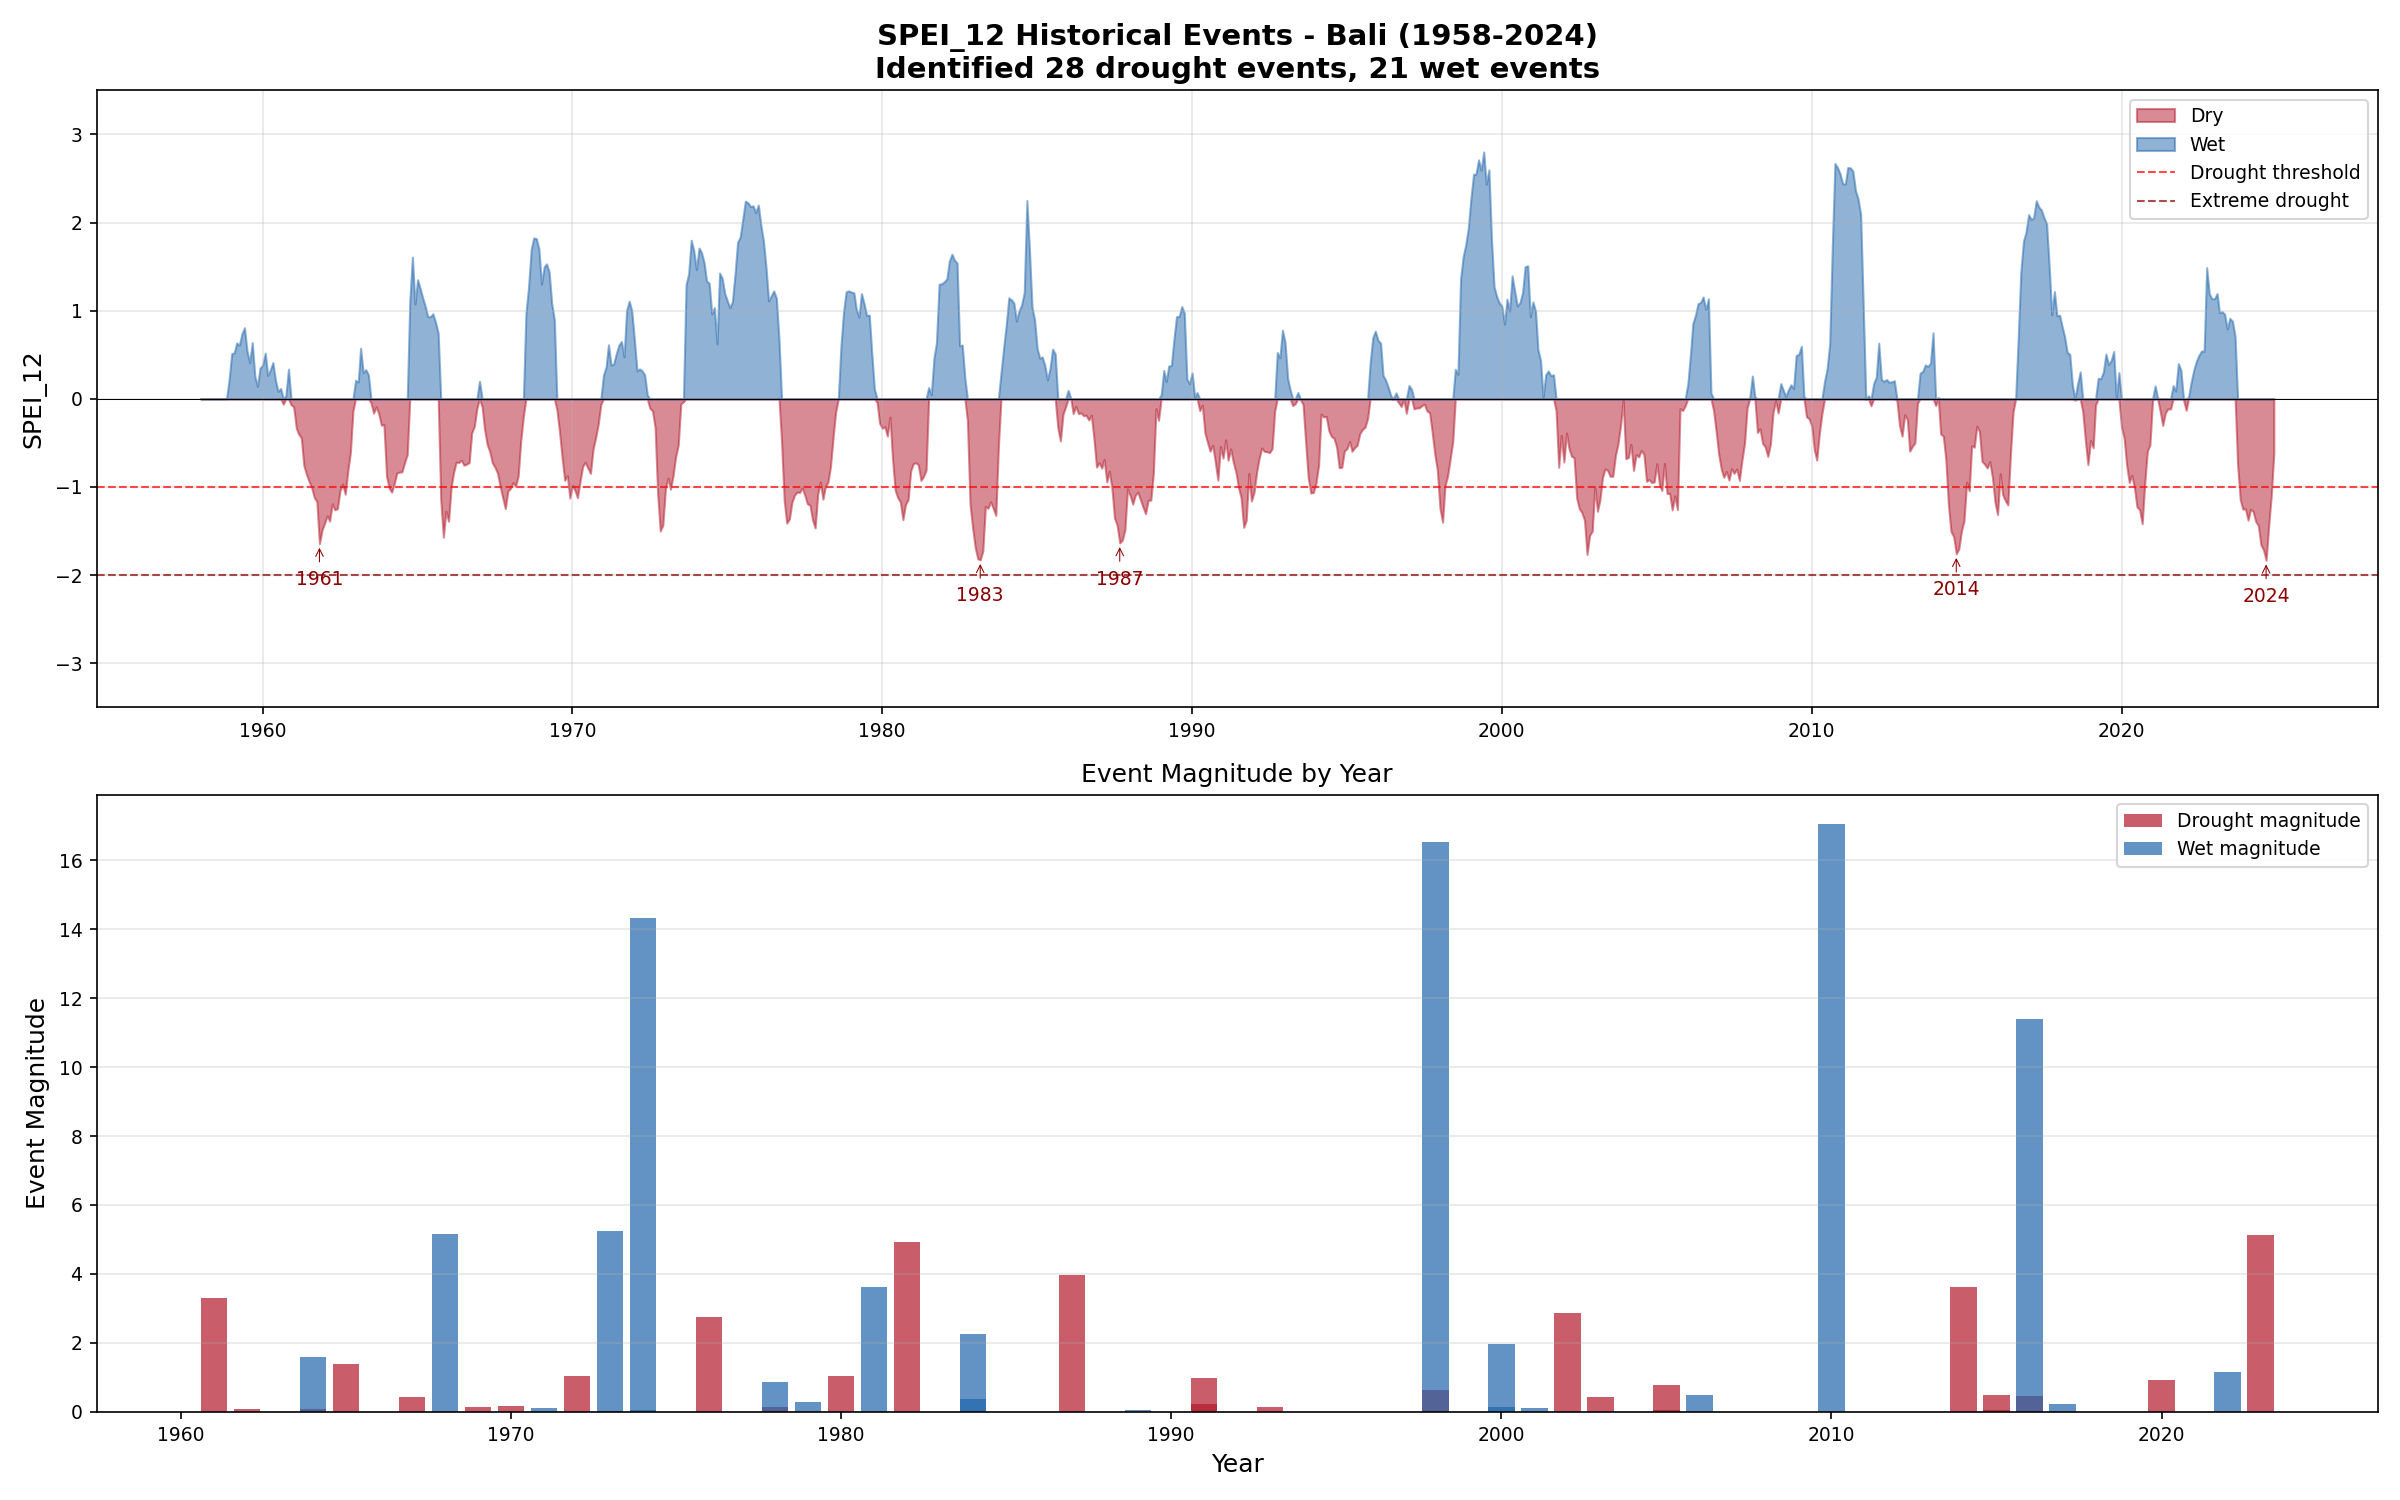
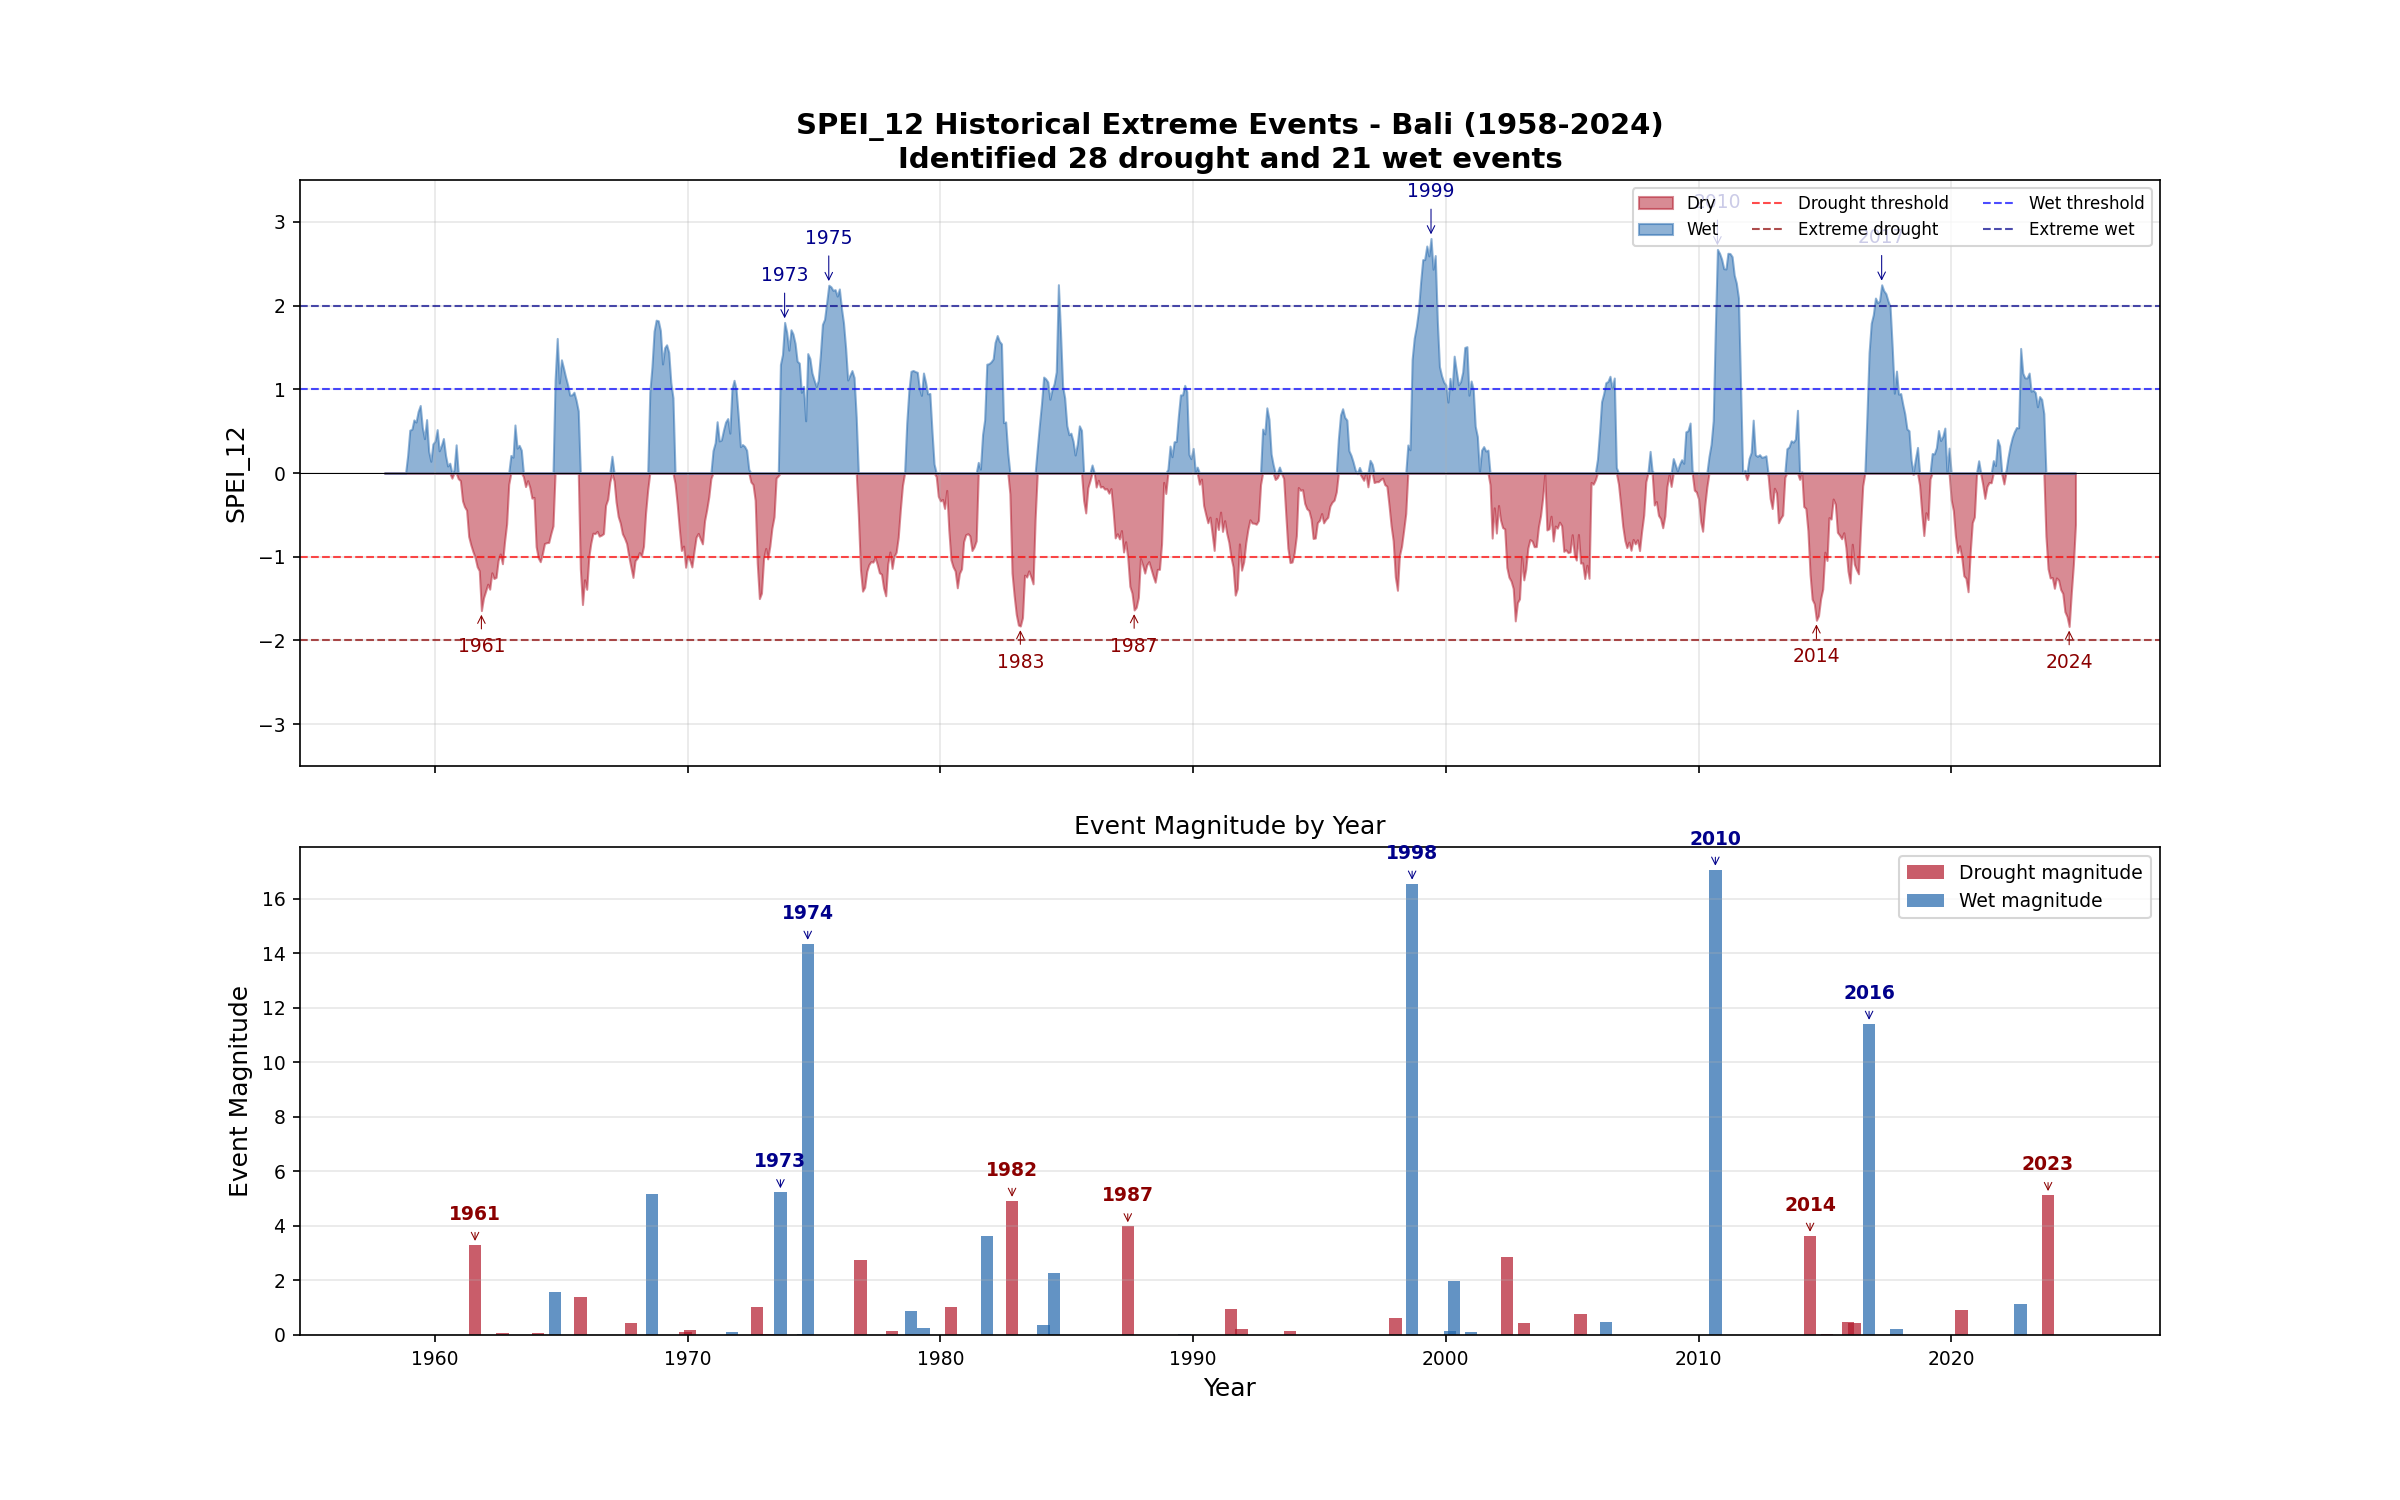
Update plot

diff --git a/tests/06_visualization.py b/tests/06_visualization.py
@@ -435,8 +435,9 @@ def create_historical_events_plot(results: dict):
         # Identify wet events (positive threshold)
         wet_events = identify_events(ts, threshold=1.0)
 
-        # Create figure with 2 panels
-        fig, axes = plt.subplots(2, 1, figsize=(16, 10))
+        # Create figure with 2 panels sharing x-axis
+        fig, axes = plt.subplots(2, 1, figsize=(16, 10), sharex=True,
+                                 gridspec_kw={'height_ratios': [1.2, 1], 'hspace': 0.15})
 
         # Panel 1: Drought events
         ax1 = axes[0]
@@ -450,6 +451,8 @@ def create_historical_events_plot(results: dict):
         ax1.axhline(y=0, color='k', linewidth=0.5)
         ax1.axhline(y=-1, color='red', linestyle='--', linewidth=1, alpha=0.7, label='Drought threshold')
         ax1.axhline(y=-2, color='darkred', linestyle='--', linewidth=1, alpha=0.7, label='Extreme drought')
+        ax1.axhline(y=1, color='blue', linestyle='--', linewidth=1, alpha=0.7, label='Wet threshold')
+        ax1.axhline(y=2, color='darkblue', linestyle='--', linewidth=1, alpha=0.7, label='Extreme wet')
 
         # Annotate top 5 drought events
         if len(drought_events) > 0:
@@ -465,39 +468,86 @@ def create_historical_events_plot(results: dict):
                                fontsize=9, ha='center', color='darkred',
                                arrowprops=dict(arrowstyle='->', color='darkred', lw=0.5))
 
+        # Annotate top 5 wet events
+        if len(wet_events) > 0:
+            top_wets = wet_events.nlargest(5, 'magnitude')
+            for idx, event in top_wets.iterrows():
+                peak_idx = int(event['peak_idx'])
+                if peak_idx < len(times):
+                    peak_time = times[peak_idx]
+                    peak_val = values[peak_idx]
+                    ax1.annotate(f"{peak_time.year}",
+                               xy=(peak_time, peak_val),
+                               xytext=(0, 20), textcoords='offset points',
+                               fontsize=9, ha='center', color='darkblue',
+                               arrowprops=dict(arrowstyle='->', color='darkblue', lw=0.5))
+
         ax1.set_ylabel(name.upper(), fontsize=12)
-        ax1.set_title(f'{name.upper()} Historical Events - Bali (1958-2024)\n'
-                     f'Identified {len(drought_events)} drought events, {len(wet_events)} wet events',
+        ax1.set_title(f'{name.upper()} Historical Extreme Events - Bali (1958-2024)\n'
+                     f'Identified {len(drought_events)} drought and {len(wet_events)} wet events',
                      fontsize=14, fontweight='bold')
         ax1.set_ylim(-3.5, 3.5)
-        ax1.legend(loc='upper right')
+        ax1.legend(loc='upper right', fontsize=8, ncol=3)
         ax1.grid(True, alpha=0.3)
 
-        # Panel 2: Event statistics
+        # Panel 2: Event statistics (using datetime x-axis to align with top panel)
         ax2 = axes[1]
 
         if len(drought_events) > 0:
-            # Create bar chart of event magnitudes over time
-            event_years = []
-            event_mags = []
+            # Create bar chart using datetime positions to align with top panel
+            bar_width = np.timedelta64(180, 'D')  # ~6 months width for bars
+
+            drought_times = []
+            drought_mags = []
             for idx, event in drought_events.iterrows():
                 start_idx = int(event['start_idx'])
                 if start_idx < len(times):
-                    event_years.append(times[start_idx].year)
-                    event_mags.append(event['magnitude'])
+                    drought_times.append(times[start_idx])
+                    drought_mags.append(event['magnitude'])
 
-            ax2.bar(event_years, event_mags, color='#b2182b', alpha=0.7, width=0.8, label='Drought magnitude')
+            if drought_times:
+                ax2.bar(drought_times, drought_mags, color='#b2182b', alpha=0.7,
+                       width=bar_width, label='Drought magnitude')
 
             # Add wet events
             if len(wet_events) > 0:
-                wet_years = []
+                wet_times = []
                 wet_mags = []
                 for idx, event in wet_events.iterrows():
                     start_idx = int(event['start_idx'])
                     if start_idx < len(times):
-                        wet_years.append(times[start_idx].year)
+                        wet_times.append(times[start_idx])
                         wet_mags.append(event['magnitude'])
-                ax2.bar(wet_years, wet_mags, color='#2166ac', alpha=0.7, width=0.8, label='Wet magnitude')
+                if wet_times:
+                    ax2.bar(wet_times, wet_mags, color='#2166ac', alpha=0.7,
+                           width=bar_width, label='Wet magnitude')
+
+            # Annotate top 5 drought events on bottom panel
+            top_droughts = drought_events.nlargest(5, 'magnitude')
+            for idx, event in top_droughts.iterrows():
+                start_idx = int(event['start_idx'])
+                if start_idx < len(times):
+                    event_time = times[start_idx]
+                    event_mag = event['magnitude']
+                    ax2.annotate(f"{event_time.year}",
+                               xy=(event_time, event_mag),
+                               xytext=(0, 12), textcoords='offset points',
+                               fontsize=9, ha='center', color='darkred', fontweight='bold',
+                               arrowprops=dict(arrowstyle='->', color='darkred', lw=0.5))
+
+            # Annotate top 5 wet events on bottom panel
+            if len(wet_events) > 0:
+                top_wets = wet_events.nlargest(5, 'magnitude')
+                for idx, event in top_wets.iterrows():
+                    start_idx = int(event['start_idx'])
+                    if start_idx < len(times):
+                        event_time = times[start_idx]
+                        event_mag = event['magnitude']
+                        ax2.annotate(f"{event_time.year}",
+                                   xy=(event_time, event_mag),
+                                   xytext=(0, 12), textcoords='offset points',
+                                   fontsize=9, ha='center', color='darkblue', fontweight='bold',
+                                   arrowprops=dict(arrowstyle='->', color='darkblue', lw=0.5))
 
         ax2.set_xlabel('Year', fontsize=12)
         ax2.set_ylabel('Event Magnitude', fontsize=12)
